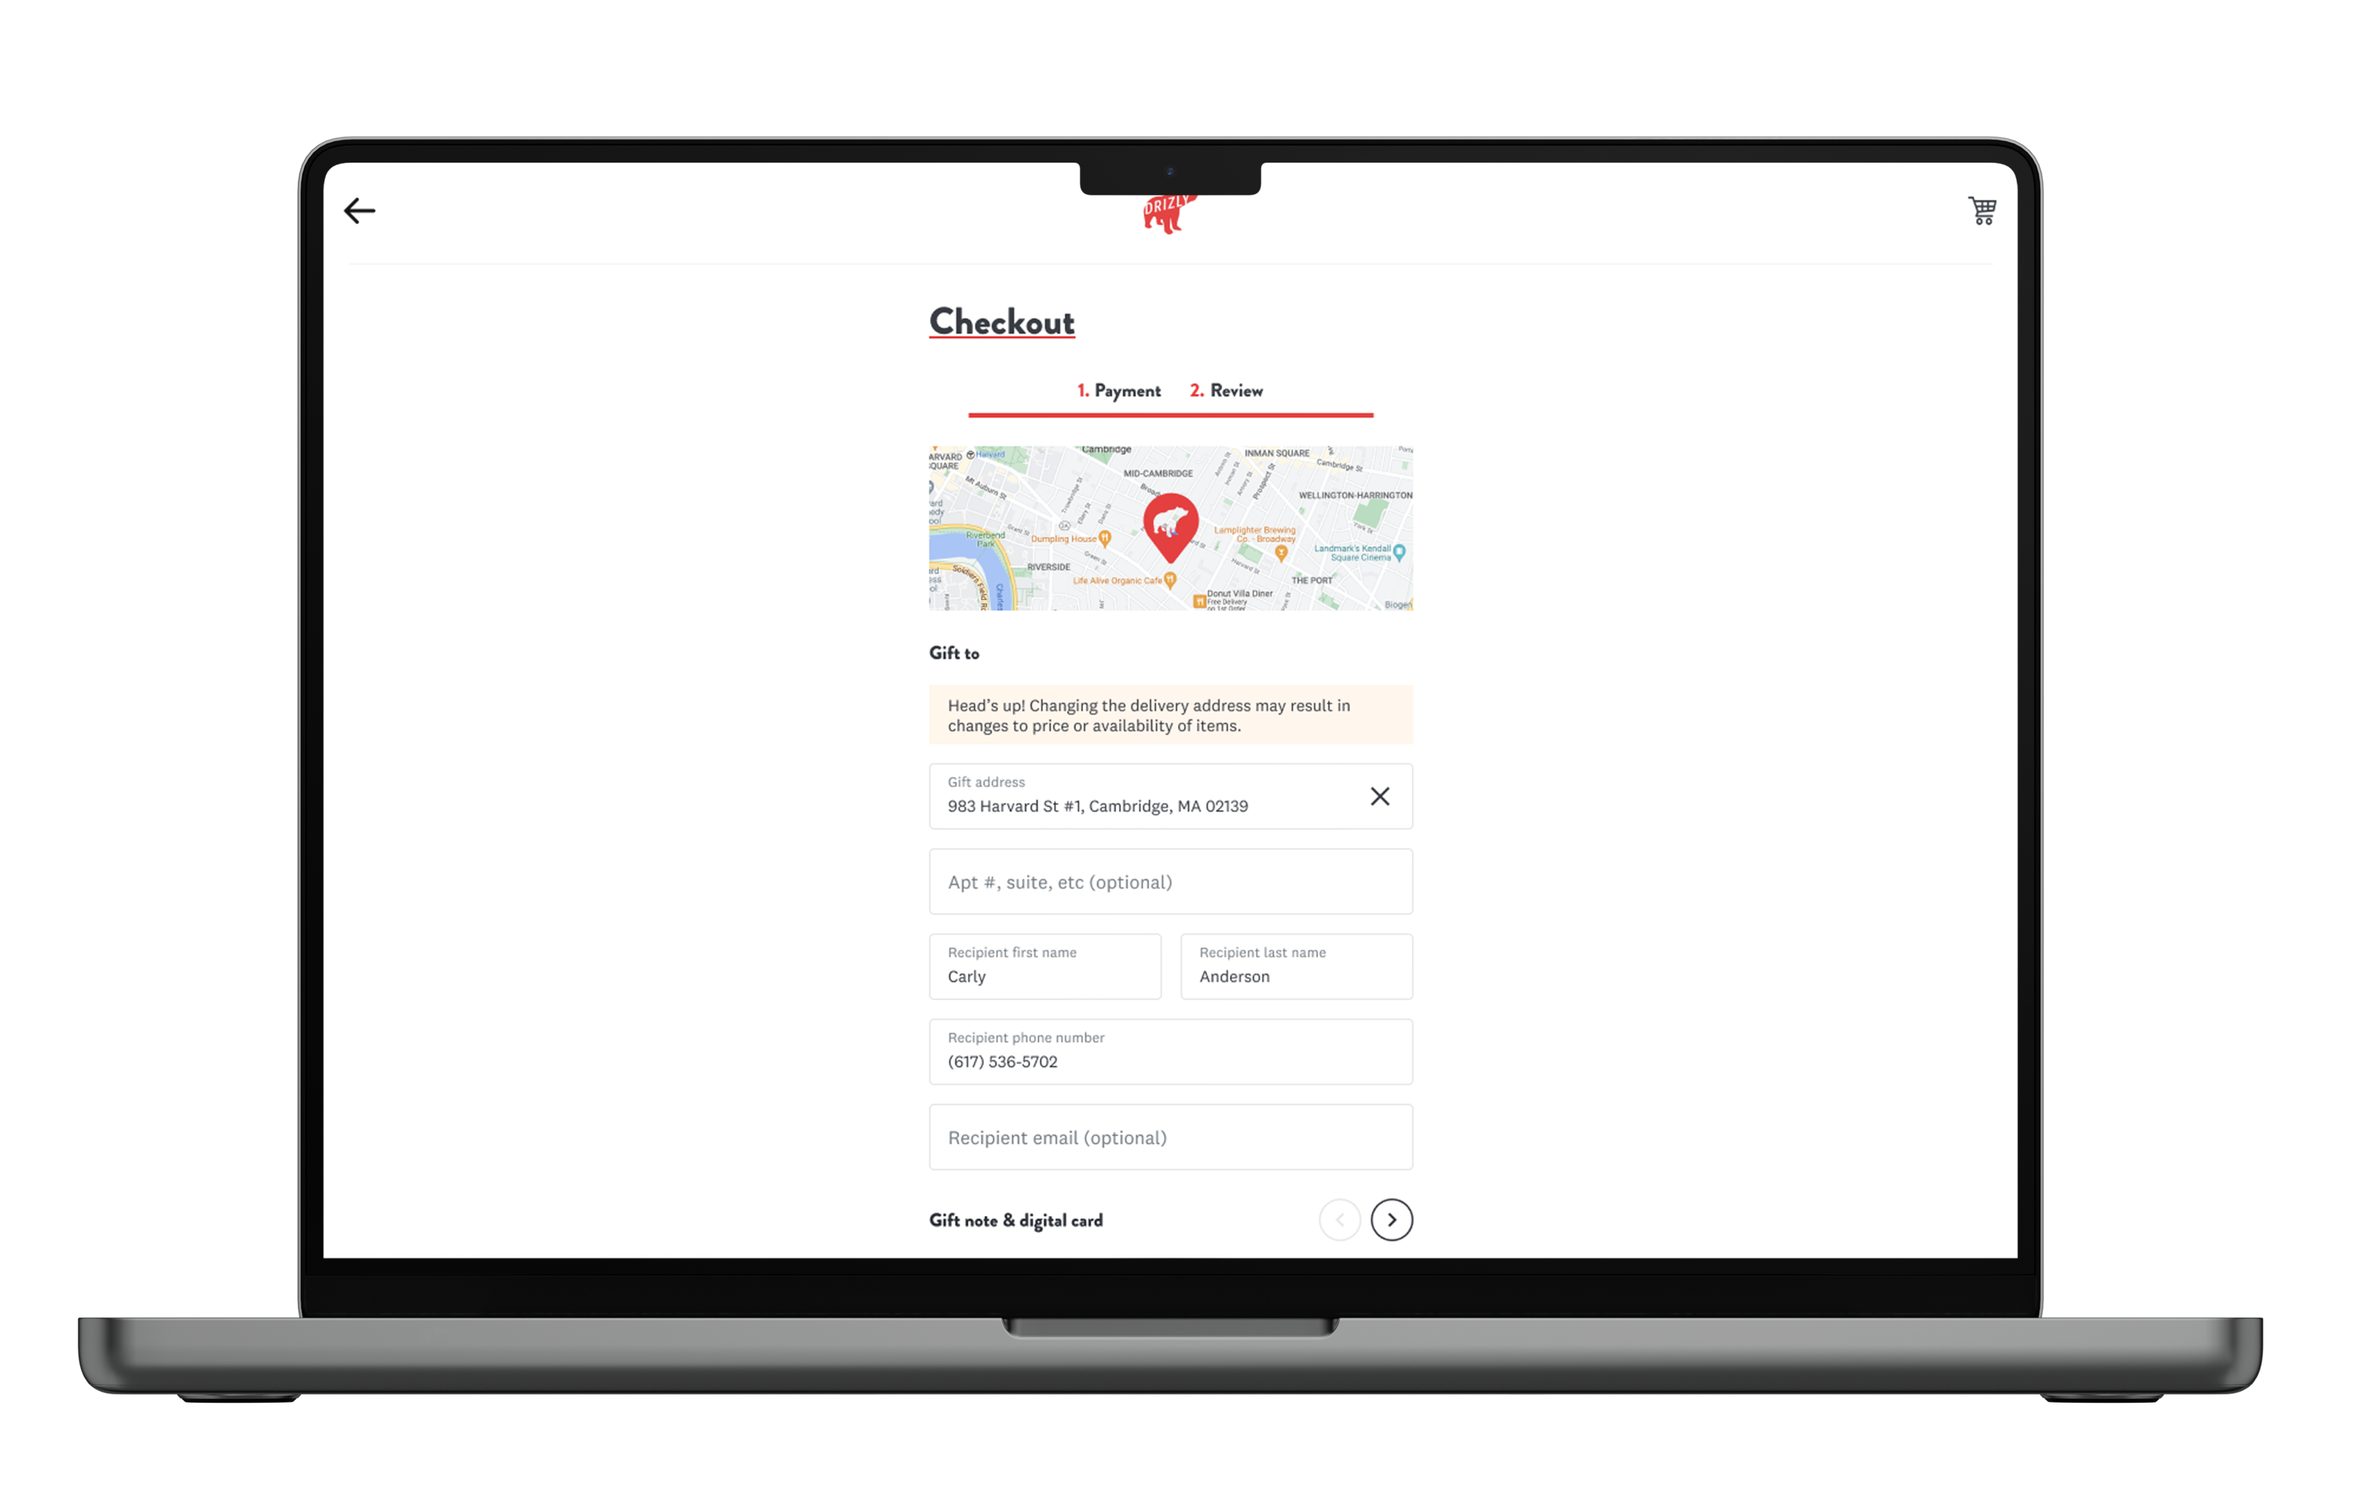
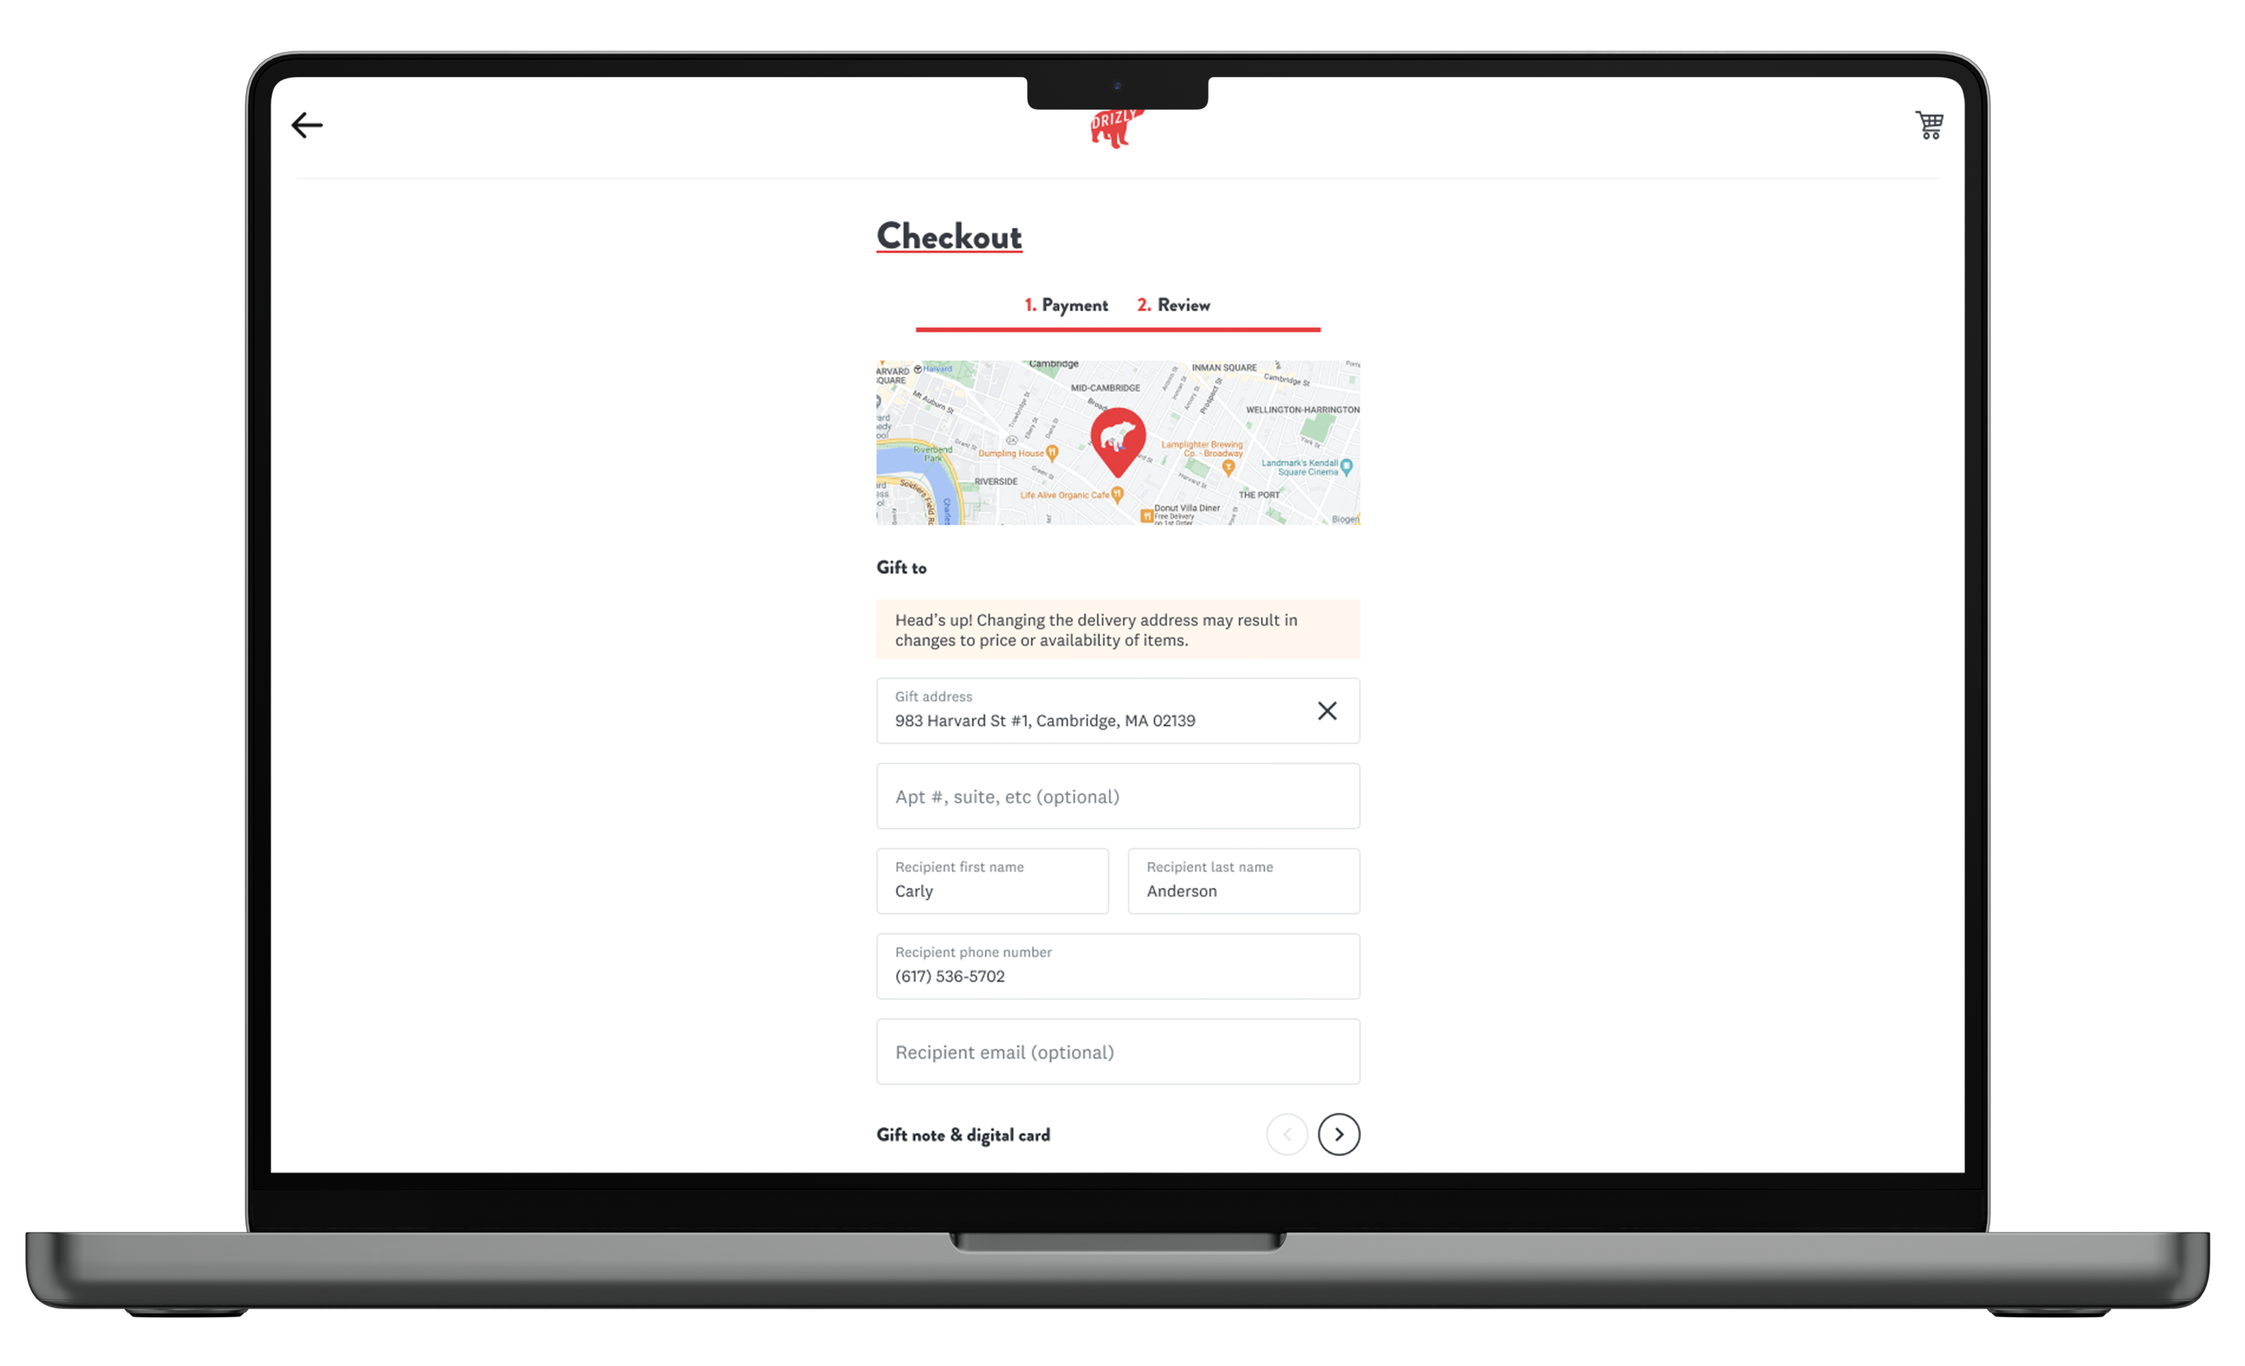
drizly added

diff --git a/brenna-sorkin-portfolio/src/GiftingProgram.js b/brenna-sorkin-portfolio/src/GiftingProgram.js
@@ -2,13 +2,11 @@ import React from 'react';
 import './PortfolioProject.css'; // Different CSS for project pages
 import Portfolio from './Portfolio';
 
-const ManagerCloseOut = () => {
+const GiftingProgram = () => {
   return (
     <div>
         {/* <div className="hero-section">
-            
              <img src="/gifting-program/hero.png" alt="Manager Close Out" />
-            
             <p className="overline">Built @ Drizly, 2022</p>
             <h1>
                 Leading <span className="highlight">Drizly's Gifting Program.</span>
@@ -32,29 +30,26 @@ const ManagerCloseOut = () => {
                           </div>
                         </header>
                       </div> */}
-
-<div className="container">
-                        <header className="hero">
-                          <div className="portfolio-pic">
-                          <img src="/gifting-program/hero.png" alt="Manager Close Out" />
-
-                          </div>
-                          <div className="intro">
-                            <p className="overline">If you only read this...</p>
-                            <h1>
-                I overhauled <span className="highlight">Drizly's Gifting Program.</span>
-            </h1>  
-            <p>
-        I led the initative to redo the end to end gifting experience at Drizly, including sender discovery and purchase execution 
-        all the way through the recipient receiving the gift. I worked across 4 engineering squads, retailer operations, brand & marketing, 
-        and leadership to achieve overwhelmingly successful program enhancements (2022).
+<div class="hero-section-wrapper">
+  <div class="hero-section">
+    <img src="/gifting-program/hero.png" alt="Gifting Program" />
+    <header>
+      <div class="intro">
+        <p class="overline">If you only read this...</p>
+        <h1>
+          I overhauled <span class="highlight">Drizly's Gifting Program.</span>
+        </h1>
+        <p>
+          I led the initiative to redo the end-to-end gifting experience at Drizly, including sender discovery and
+          purchase execution all the way through the recipient receiving the gift. I worked across 4 engineering squads,
+          retailer operations, brand & marketing, and leadership to achieve program enhancements (2022).
         </p>
-      
+      </div>
+    </header>
+  </div>
+</div>
 
-                          </div>
-                        </header>
-                      </div>
-   
+
     <div className="case-study-content">
         {/* <p className="overline">If you only read this...</p>
         <p>
@@ -212,10 +207,7 @@ We conducted a number of user research studies to examine the sender & recipient
             <span className="highlight">1%</span>
             Reduction in void rate resulting from the removal of surprise gifts (where the recipient might not be home)
             </p>
-            <p className='card'>
-            <span className="highlight">23%</span>
-            Higher conversion rate, turning recipient into shopper, if they received a card with their gift
-            </p>
+            
            
             
         </div>
@@ -224,14 +216,106 @@ We conducted a number of user research studies to examine the sender & recipient
         </p>
 
         
-        <p className='overline'>A new approach</p>
+       
+
+        <p className='overline'>Approach</p>
+        <p>
+        <span className="highlight">Help senders find the right product & store</span>
+        </p>
+        <p>
+        Prior to this work, shoppers in search of a gift had to browse the same way as non-gift shoppers: by slogging through literally 
+        thousands of available products. While we can debate the merits of this for any user, for gifters this was particularly a problem 
+        since they are not shopping for themselves and are often operating on only a limited idea of what their recipient would enjoy.
+        </p>
+        <p>
+        We created solutions for both shoppers who need just a little guidance and those who need complete hand-holding throughout the process. 
+        For independent shoppers, we needed to create a strong "gifting home" - a hub where they could go for gifting-specific products and 
+        guidance.
+        </p>
+        <img src="/gifting-program/new_gift_web.png" alt="Manager Close Out" />
+        <p>
+        We created a space on web and apps that felt differentiated from the regular, on-demand shopping experience, and we directed shoppers 
+        to it as soon as they indicated an interest in gifting (on web, this meant redirecting them from the address capture page).
+        </p>
+        <p>
+        Here, tailroed products are surfaced and organized by occasion, rather than product category, which research showed is how our gifters 
+        tend to think. If a user shops by occasion, the relevant card selection will carry through to checkout, maintaining a coherent thread 
+        throughout the experience.
+        </p>
+        <img src="/gifting-program/guided_quiz.gif" alt="Manager Close Out" />
+        <p>
+        For shoppers who needed more help finding a product, we designed a guided gift quiz, which allowed us to recommend specific products 
+        and gave us space to highlight some fun brand moments.
+        </p>
+        
+        <p className='overline'>Outcomes</p>
+        <div className='card-row'>
+            <p className='card'>
+             <span className="highlight">$4.72</span>
+             Average spend increase through gifting hub
+            </p>
+            <p className='card'>
+            <span className="highlight">4%</span>
+            Increase in conversion for gift senders
+            </p>
+            <p className='card'>
+            <span className="highlight">49%</span>
+            V1 guided gift quiz completion rate
+            </p>
+        </div>
+
+
+        <p className='overline'>Approach</p>
+        <p>
+        <span className="highlight">Revamp recipient experience</span>
+        </p>
+        <p>
+        While removing surprise gifting eliminated some issues with recipient not home, poor recipient experience was still contributing to 
+        dissatisfaction and unsuccessful gifts. A large part of the issue was due to communication of expectations, namely that recipients must be home at the time of delivery and that they will need to show ID.
+        </p>
+        <img src="/gifting-program/emails.png" alt="Manager Close Out" />
+        <p>
+        The easiest thing to tackle right off the bat was our transactional email communications - that is, non-marketing emails related 
+        to product actions.
+        </p>
+        <img src="/gifting-program/existing_recipient_web.png" alt="Manager Close Out" />
         
         <p>
-        At the beginning of this project, the brief was to simply to update the style of the screen to use the new POS 3.0 design system. However, I identified a number of paper cuts and greater problems and determined that this was an opportunity to improve the user experience beyond just the look and feel.
-
-This project also exposed the interdependencies between different experiences within the Toast ecosystem. While these features are owned by different teams, from the user perspective they are deeply interconnected. This project kicked off closer collaboration between teams whose work impacts the end of day experience, laying the groundwork for a more cohesive experience.
+        We transformed what was previously a single page form with no context into a clearly laid out experience with key information 
+        appropriately highlighted. We also brought in the digital card that the sender chooses to increase the personalized feel.
         </p>
-       
+        <img src="/gifting-program/recipient_experience.gif" alt="Manager Close Out" />
+        <p>
+        We also added functionality to allow gift recipients to change their address if the sender messed it up slightly. If the address is too
+         far away to be delivered by the same store we have to void it, but we if the address was close, just not quite right, it can be 
+         delivered by the same store. Each CX contact costs Drizly over $1, so being able to manually adjust
+          these addresses is a big win. (For context - a 5% reduction in contact rate saves Drizly nearly $10,000).
+        </p>
+
+        <p className='overline'>Outcomes</p>
+        <div className='card-row'>
+            <p className='card'>
+             <span className="highlight">68%</span>
+             Wrong address isues that can be resolved by the same store
+            </p>
+            <p className='card'>
+            <span className="highlight">23%</span>
+            Higher conversion rate, turning recipient into shopper, if they received a card with their gift
+            </p>
+        </div>
+
+        <p className='overline'>A new approach</p>
+
+        <p>
+        When this initiatve launched, there wasn't consensus across the funnel on the consumer side, let alone across the whole organization, 
+        which needed to work together to see gifting from 50,000 ft. By leading cross-discipline brainstorms and workshops, folks became aware 
+        of what was happening in other parts of the company and were able to coordinate with the relevant people to achieve symbiosis on
+         particular areas of the program.
+         </p>
+        <p>
+            By having design as the central voice in the initiative, I was able to keep a vision of the entire user flow from top to bottom and ensure that the shopper experience was coheisve across these many different facets.
+        </p>
+
 
     </div>
      {/* Include Portfolio component but exclude this project */}
@@ -240,4 +324,4 @@ This project also exposed the interdependencies between different experiences wi
   );
 };
 
-export default ManagerCloseOut;
+export default GiftingProgram;

diff --git a/brenna-sorkin-portfolio/src/ManagerCloseOut.js b/brenna-sorkin-portfolio/src/ManagerCloseOut.js
@@ -5,7 +5,7 @@ import Portfolio from './Portfolio';
 const ManagerCloseOut = () => {
   return (
     <div>
-        <div className="hero-section">
+        {/* <div className="hero-section">
             
              <img src="/close-out/hero.png" alt="Manager Close Out" />
             
@@ -13,15 +13,32 @@ const ManagerCloseOut = () => {
             <h1>
                 Overhauling the <span className="highlight"> Manager "End of Day".</span>
             </h1>           
-        </div>
+        </div> */}
+
+<div class="hero-section-wrapper">
+  <div class="hero-section">
+    <img src="/close-out/hero.png" alt="Manager close out on POS" />
+    <header>
+      <div class="intro">
+        <p class="overline">If you only read this...</p>
+        <h1>
+          I revamped the<span class="highlight"> manager "end of day"</span> process at Toast
+        </h1>
+        <p>
+          I completely redesigned the close of day process for restaurant managers, making it easier for GMs to 
+          reconcile sales, count cash, review staff performance, and ensure checks are closed. This process ensures financial accuracy, 
+          identifies discrepancies, and prepares the restaurant for the next day. Streamlining it reduces stress, minimizes errors, and enhances overall operational efficiency.
+          (2023).
+        </p>
+      </div>
+    </header>
+  </div>
+</div>
    
     <div className="case-study-content">
-        <p className="overline">Why</p>
+        <p className="overline">Now, let's get into it!</p>
         <p>
              Toast decided to overhaul all of the point of sale (POS) experience to a new design system, known as POS 3.0, which I saw as an opportunity to improve the end of day experience for managers, which was particularly clunky and time consuming, resulting in users wasting time on unnecessary tasks and ultimately being confused.
-        </p>
-        <p>
-        The restaurant manager's end-of-day close-out process involves reconciling sales, counting cash, reviewing staff performance, ensuring checks are reconciled, and securing the premises. This process ensures financial accuracy, identifies discrepancies, and prepares the restaurant for the next day. Streamlining it reduces stress, minimizes errors, and enhances overall operational efficiency.
         </p>
         <p className='overline'>Goals & Challenges</p>
         <div className='card-row'>

diff --git a/brenna-sorkin-portfolio/src/PortfolioProject.css b/brenna-sorkin-portfolio/src/PortfolioProject.css
@@ -5,12 +5,35 @@ body {
   background-color: #FFFCF2;
 }
 
-.hero-section {
-    text-align: center;
-     background-color: #A7D1E7; /* Light blue */
-     color: #333;
-     padding: 0 340px 40px 340px;
+
+
+.hero-section-wrapper {
+    display: flex; /* Enables Flexbox */
+    justify-content: center; /* Horizontally center content */
+    align-items: center; /* Vertically center content */
+    background-color: #A7D1E7; /* Light blue */
+    padding: 20px 20px; /* Add some padding for responsiveness */
+  }
+  
+  .hero-section {
+    display: flex; /* Enables Flexbox for image and text alignment */
+    flex-direction: row; /* Align image and text horizontally */
+    align-items: center; /* Vertically align text relative to the image */
+    justify-content: center; /* Ensure equal spacing horizontally */
+    gap: 40px; /* Space between the image and text */
+    max-width: 1200px; /* Restrict maximum width of the content */
+    width: 100%; /* Ensure the content spans the available width */
+  }
+  
+  .hero-section img {
+    max-width: 50%; /* Restrict the image to half the container width */
+    height: auto; /* Maintain aspect ratio */
+  }
+
+.intro {
+    margin-bottom: 56px;
 }
+
 
 .hero-section h1 {
     font-size: 2rem;
@@ -27,8 +50,9 @@ body {
     font-size: 1.2rem;
     margin-bottom: 0;
     margin-top: 40px;
-    
   }
+
+  
 
 img {
   width: 100%;
@@ -94,4 +118,22 @@ img {
         margin-bottom: 4px;
         max-width: 100%;
     }
+
+    .hero-section {
+        flex-direction: column;
+        gap: 0;
+    }
+
+    .hero-section img {
+        max-width: 100%; /* Restrict image width to full width of the container */
+      }
+
+      .overline {
+        margin-top: 0px;
+      }
+
+
+.intro {
+    margin-bottom: 16px;
+}
 }
